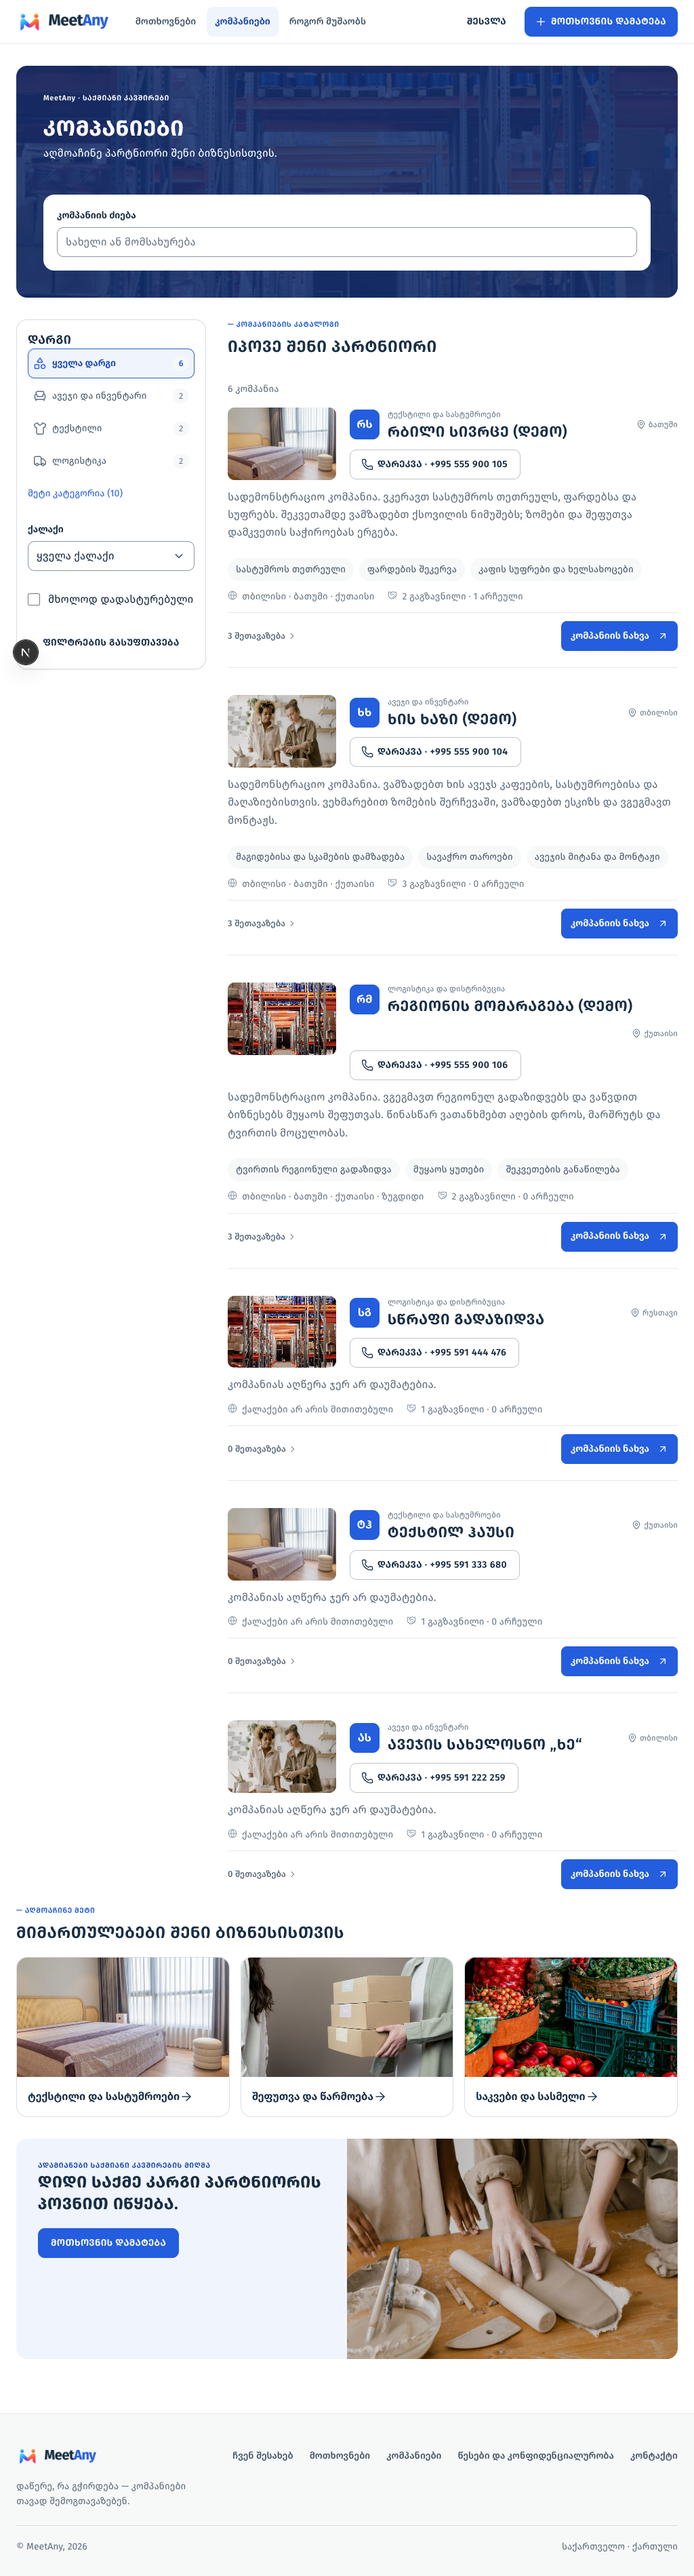
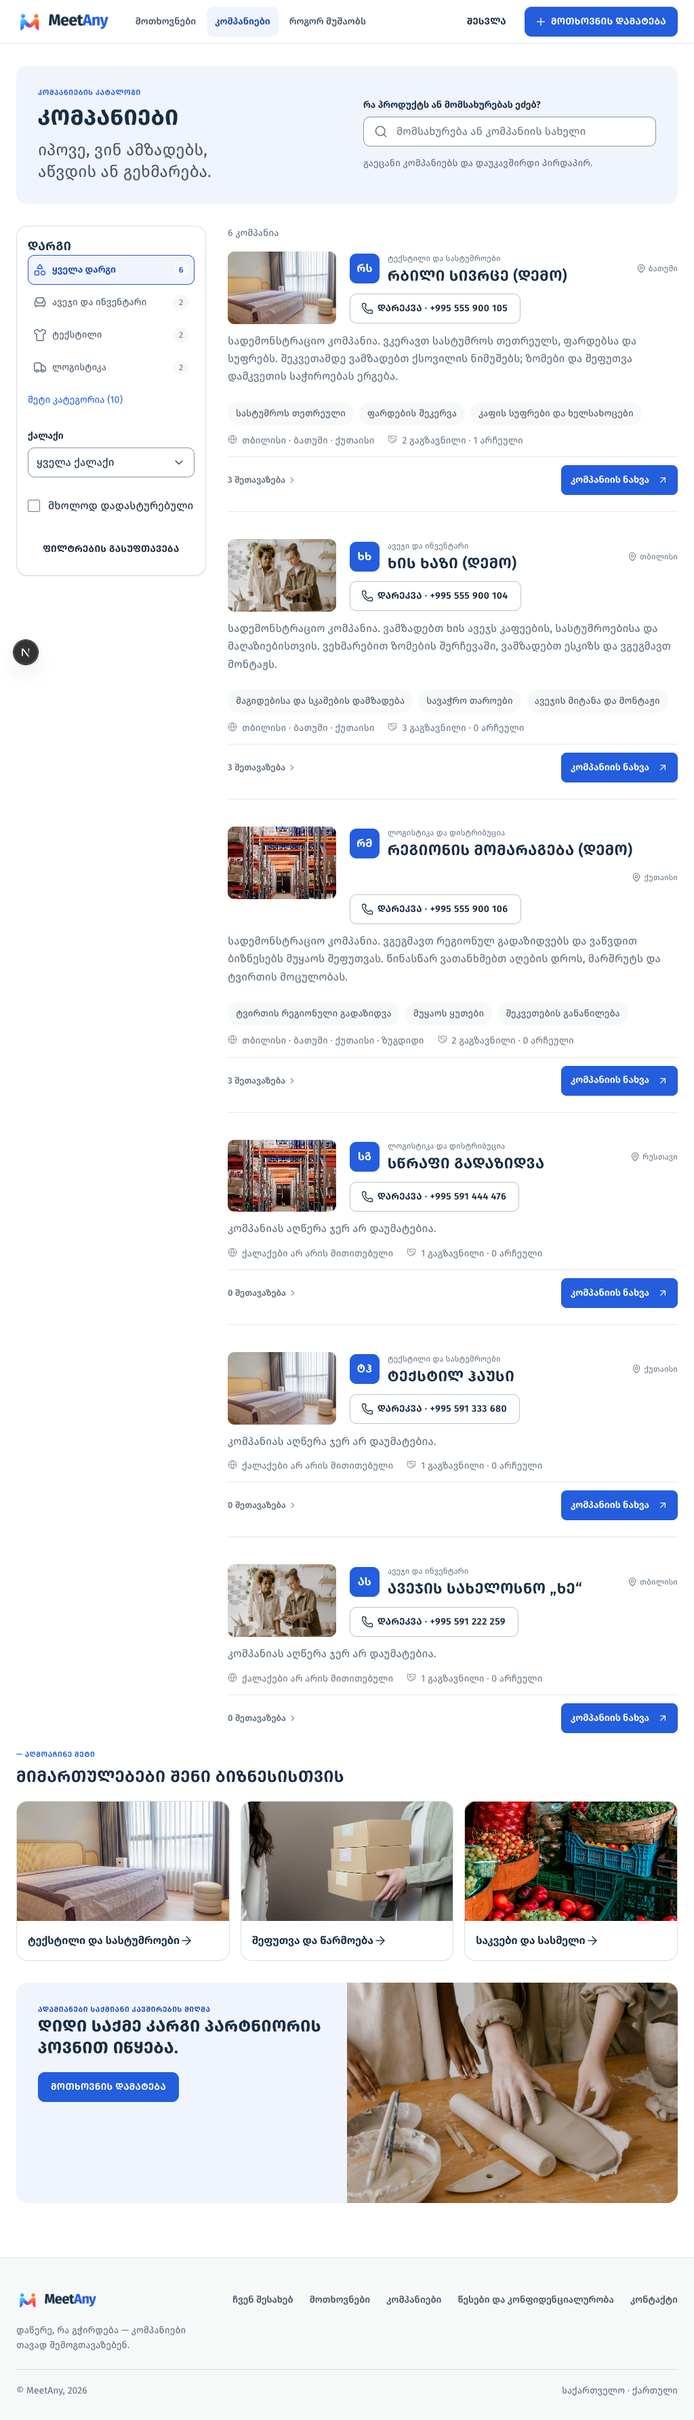
Differentiate request discovery from the company directory

diff --git a/web/app/components/market/CompaniesPageContent.tsx b/web/app/components/market/CompaniesPageContent.tsx
@@ -2,7 +2,6 @@
 
 import { useCallback, useEffect, useMemo, useRef, useState } from "react";
 import { Icon } from "../Icon";
-import { PageBand } from "./PageBand";
 import { SectionHead } from "./SectionHead";
 import { FacetList, type Facet } from "./FacetList";
 import { ResultsBar } from "./ResultsBar";
@@ -121,7 +120,7 @@ export function CompaniesPageContent() {
       </div>
       <div className="ma-field">
         <label className="ma-field__label" htmlFor="company-city-desktop">
-          ქალაქი
+          მომსახურების ქალაქი
         </label>
         <select className="ma-select" id="company-city-desktop" value={city} onChange={(e) => setCity(e.target.value)}>
           <option value="">ყველა ქალაქი</option>
@@ -143,33 +142,29 @@ export function CompaniesPageContent() {
   );
 
   return (
-    <div className="ma-page">
-      <PageBand
-        eyebrow="MeetAny · საქმიანი კავშირები"
-        title="კომპანიები"
-        description="აღმოაჩინე პარტნიორი შენი ბიზნესისთვის."
-        searchSlot={
-          <div className="ma-field">
-            <label className="ma-field__label" htmlFor="company-query">
-              კომპანიის ძიება
-            </label>
-            <input
-              className="ma-input"
-              id="company-query"
-              type="search"
-              placeholder="სახელი ან მომსახურება"
-              value={query}
-              onChange={(e) => setQuery(e.target.value)}
-            />
+    <div className="ma-page companies-catalog">
+      <header className="companies-intro">
+        <div className="companies-intro__identity">
+          <span className="ma-eyebrow">კომპანიების კატალოგი</span>
+          <h1 className="ma-h1">კომპანიები</h1>
+          <p>იპოვე, ვინ ამზადებს,<br />აწვდის ან გეხმარება.</p>
+        </div>
+        <div className="companies-intro__search">
+          <div className="ma-field catalog-search">
+            <label className="ma-field__label" htmlFor="company-query">რა პროდუქტს ან მომსახურებას ეძებ?</label>
+            <div className="catalog-search__input">
+              <Icon name="search" />
+              <input className="ma-input" id="company-query" type="search" placeholder="სახელი ან მომსახურება" value={query} onChange={(e) => setQuery(e.target.value)} />
+            </div>
           </div>
-        }
-      />
+          <p>გაეცანი კომპანიებს და დაუკავშირდი პირდაპირ.</p>
+        </div>
+      </header>
       <div className="ma-proto-columns">
         <aside className="ma-proto-sidebar ma-panel" aria-label="კომპანიების ფილტრები">
           {filtersBody}
         </aside>
         <section className="ma-stack">
-          <SectionHead eyebrow="კომპანიების კატალოგი" title="იპოვე შენი პარტნიორი" />
           <button type="button" className="ma-btn ma-btn--secondary ma-lg-down" ref={filterButtonRef} onClick={() => setSheetOpen(true)}>
             <Icon name="sliders-horizontal" />
             ფილტრი ({filterCount})

diff --git a/web/app/components/market/RequestsPageContent.tsx b/web/app/components/market/RequestsPageContent.tsx
@@ -3,8 +3,6 @@
 import { useCallback, useEffect, useMemo, useRef, useState } from "react";
 import { useSearchParams } from "next/navigation";
 import { Icon } from "../Icon";
-import { PageBand } from "./PageBand";
-import { SectionHead } from "./SectionHead";
 import { FacetList, type Facet } from "./FacetList";
 import { ResultsBar } from "./ResultsBar";
 import { MobileFilterSheet } from "./MobileFilterSheet";
@@ -157,7 +155,7 @@ export function RequestsPageContent({ autoOpenNew = false }: { autoOpenNew?: boo
       </div>
       <div className="ma-field">
         <label className="ma-field__label" htmlFor="city-desktop">
-          ქალაქი
+          სად არის საჭირო
         </label>
         <select className="ma-select" id="city-desktop" value={city} onChange={(e) => setCity(e.target.value)}>
           <option value="">ყველა ქალაქი</option>
@@ -175,28 +173,21 @@ export function RequestsPageContent({ autoOpenNew = false }: { autoOpenNew?: boo
   );
 
   return (
-    <div className="ma-page">
-      <PageBand
-        eyebrow="MeetAny · საქმიანი კავშირები"
-        title="მოთხოვნები"
-        description="ნებისმიერს შეუძლია დაწეროს, რა სჭირდება — კომპანიები პასუხობენ შეთავაზებით."
-        searchSlot={
-          <div className="ma-field">
-            <label className="ma-field__label" htmlFor="query">
-              მოთხოვნის ძიება
-            </label>
-            <input
-              className="ma-input"
-              id="query"
-              type="search"
-              placeholder="რა მიმართულებას ეძებ?"
-              value={query}
-              onChange={(e) => setQuery(e.target.value)}
-            />
+    <div className="ma-page requests-catalog">
+      <header className="requests-intro">
+        <div>
+          <span className="ma-eyebrow">იპოვე საქმე შენი კომპანიისთვის</span>
+          <h1 className="ma-h1">მოთხოვნები</h1>
+          <p>ნახე რა სჭირდებათ და შესთავაზე შენი პირობები.</p>
+        </div>
+        <div className="ma-field catalog-search">
+          <label className="ma-field__label" htmlFor="query">მოთხოვნის ძიება</label>
+          <div className="catalog-search__input">
+            <Icon name="search" />
+            <input className="ma-input" id="query" type="search" placeholder="მაგ. ავეჯი ან შეფუთვა" value={query} onChange={(e) => setQuery(e.target.value)} />
           </div>
-        }
-      />
-      <SectionHead eyebrow="შენი შემდეგი საქმიანი კავშირი" title="მოთხოვნების სია" />
+        </div>
+      </header>
       <div className="ma-proto-columns">
         <aside className="ma-proto-sidebar ma-panel" aria-label="ფილტრები">
           {filtersBody}

diff --git a/web/app/styles/marketplace.css b/web/app/styles/marketplace.css
@@ -219,3 +219,30 @@
  .ma-proto .request-detail>.r2-band{padding:var(--space-5)}
  .request-detail-aside{padding:var(--space-5)}
 }
+
+/* Task-led catalog introductions: work discovery and supplier discovery. */
+.requests-intro,.companies-intro{display:grid;grid-template-columns:minmax(0,1fr);gap:var(--space-6);margin-bottom:var(--space-8)}
+.requests-intro{padding-bottom:var(--space-6);border-bottom:1px solid var(--border)}
+.requests-intro .ma-eyebrow,.companies-intro .ma-eyebrow{display:block;color:var(--action);margin-bottom:var(--space-2)}
+.requests-intro p{margin-top:var(--space-2);color:var(--text-3);font-size:var(--fs-sm)}
+.catalog-search{min-width:0;align-self:center}
+.catalog-search__input{position:relative}
+.catalog-search__input>.icon{position:absolute;left:var(--space-4);top:50%;transform:translateY(-50%);color:var(--text-3);pointer-events:none}
+.catalog-search__input>.ma-input{width:100%;padding-left:var(--space-12)}
+.companies-intro{padding:var(--space-8);background:var(--blue-50);border-radius:var(--radius-lg);align-items:center}
+.companies-intro__identity>p{font-size:var(--fs-h2);line-height:var(--lh-h2);color:var(--text-2);margin-top:var(--space-3)}
+.companies-intro__search{min-width:0;display:grid;gap:var(--space-3)}
+.companies-intro__search>p{font-size:var(--fs-sm);color:var(--text-3)}
+.ma-proto .requests-catalog .ma-rcard--row{box-shadow:none;padding:var(--space-5);gap:var(--space-4)}
+.requests-catalog .ma-rcard--row>.ma-stack{gap:var(--space-3)}
+.requests-catalog .ma-proto-rowend{align-content:start}
+@media(min-width:768px){
+ .requests-intro{grid-template-columns:minmax(0,1fr) minmax(0,1fr);align-items:center;gap:var(--space-8)}
+ .companies-intro{grid-template-columns:minmax(0,1fr) minmax(0,1fr);gap:var(--space-12)}
+}
+@media(max-width:767px){
+ .companies-intro{padding:var(--space-5)}
+ .requests-intro,.companies-intro{margin-bottom:var(--space-6)}
+ .requests-catalog .ma-proto-rowend{display:flex;flex-wrap:wrap;align-items:center;gap:var(--space-3)}
+ .requests-catalog .ma-proto-rowend>.ma-btn{margin-left:auto}
+}

diff --git a/web/app/components/market/RequestRow.tsx b/web/app/components/market/RequestRow.tsx
@@ -58,9 +58,7 @@ export function RequestRow({ r }: { r: RequestRowData }) {
             </span>
           ) : null}
         </div>
-        <div className="ma-small ma-muted">
-          {r.neededBy ? `საჭიროა ${neededByLabel(r.neededBy)}` : "საჭირო თარიღი არ არის მითითებული"}
-        </div>
+        {r.neededBy ? <div className="ma-small ma-muted">საჭიროა {neededByLabel(r.neededBy)}</div> : null}
       </div>
       <div className="ma-proto-rowend">
         <span className="ma-rcard__offers">

diff --git a/DESIGN-SYSTEM.md b/DESIGN-SYSTEM.md
@@ -11,9 +11,9 @@ Tailwind/shadcn არ გამოიყენება. ახალი ფე
 
 `SiteShell` ყველა marketplace გვერდს ათავსებს ერთ `ma-container`-ში, header/footer-ის კიდეებთან გასწორებით. desktop ფილტრის სიგანეა 280px; მობილურზე ფილტრი იხსნება native dialog-ში. აქტიური ფილტრები ინახება URL-ში და მუშაობს browser back/forward.
 
-მოთხოვნები: მუქი ფოტობენდი, ძიება, მარცხენა ფილტრები, შედეგების რიგში დალაგება და ფართო ბარათები. კატეგორიები Lucide-ის `/icons.svg` sprite-დან; ყველა არანულოვანი კატეგორია ჩანს მოკლე ერთხაზიანი ლეიბლით, ცალკე რაოდენობით და აქტიური რიგის მარცხენა აქცენტით. სრული სახელი ხელმისაწვდომია `aria-label`/`title`-ში. ჩატვირთვისას რაოდენობები არ იბეჭდება.
+მოთხოვნების სია: კომპაქტური თეთრი შესავალი, სათაურის გვერდით ძიება, მარცხენა ფილტრები და შედეგების რიგში დალაგება. ტექსტზე ორიენტირებულ ბარათებში რაოდენობა/ქალაქი და ვადა/პასუხები სტაბილურ ადგილებს იკავებს. მოთხოვნის დეტალი ინარჩუნებს მუქ ფოტობენდს. კატეგორიები Lucide-ის `/icons.svg` sprite-დან; ყველა არანულოვანი კატეგორია ჩანს მოკლე ერთხაზიანი ლეიბლით, ცალკე რაოდენობით და აქტიური რიგის მარცხენა აქცენტით. სრული სახელი ხელმისაწვდომია `aria-label`/`title`-ში. ჩატვირთვისას რაოდენობები არ იბეჭდება.
 
-კომპანიები: კომპაქტური ჰორიზონტალური ფოტო (3:2) `categoryPhoto`-დან, მომსახურების ჩიპები და ძირითადი ლურჯი ღილაკი. კატალოგის ბარათზე დადასტურების ბეიჯი არ ჩანს (მფლობელის განახლებული გადაწყვეტილება). ფოტო და კომპანიის ვინაობა ზედა რიგს იკავებს, აღწერა/მომსახურებები/მოქმედებები მთელ სიგანეს იყენებს. პროდუქტები უბრალო სიაა. ტელეფონის ბმული არის `tel:` და მინიმუმ 44px სამიზნე აქვს.
+კომპანიები: ღია ლურჯი შესავალი, პროდუქტზე/მომსახურებაზე ორიენტირებული ძიება და პირდაპირი კონტაქტის მინიშნება; კომპაქტური ჰორიზონტალური ფოტო (3:2) `categoryPhoto`-დან, მომსახურების ჩიპები და ძირითადი ლურჯი ღილაკი. კატალოგის ბარათზე დადასტურების ბეიჯი არ ჩანს (მფლობელის განახლებული გადაწყვეტილება). ფოტო და კომპანიის ვინაობა ზედა რიგს იკავებს, აღწერა/მომსახურებები/მოქმედებები მთელ სიგანეს იყენებს. პროდუქტები უბრალო სიაა. ტელეფონის ბმული არის `tel:` და მინიმუმ 44px სამიზნე აქვს.
 
 მთავარი ინარჩუნებს არსებულ hero-ს და 3D კატეგორიებს. `HomeLive`-ის featured კომპანიები და რაოდენობები რეალური ბაზიდან იტვირთება. ძველ hero-სთან შედარება: 1440px-ზე ორივე 435.09px სიმაღლე; ფერი/ფოტოს გამჭვირვალობა იდენტურია.
 

diff --git a/web/qa/DESIGN-DIRECTION.md b/web/qa/DESIGN-DIRECTION.md
@@ -1,6 +1,6 @@
 # MeetAny: requests and company discovery
 
-Research reviewed 2026-09-22. This is a proposed direction, not a claim that users have tested or approved a new design.
+Research reviewed 2026-09-22. The owner approved this direction in conversation; the catalog introductions are now implemented. This is not a claim of usability testing with representative users.
 
 The two pages serve different decisions. Requests help a supplier decide whether to respond to a specific need; companies help a buyer choose a potential partner. Keep shared navigation, typography, controls and filter behavior, while differentiating hierarchy, content and page introductions.
 
@@ -11,7 +11,7 @@ The two pages serve different decisions. Requests help a supplier decide whether
 | Entry hierarchy | Need → quantity/location/deadline → responses | Company → capabilities/service area → contact |
 | Image | Author's actual reference photo, when present | Small supporting image; company identity stays primary |
 | Main action | View requirement, then send terms | View company or call |
-| Filters | Category and destination city | Industry and service area (service-area behavior requires a separate functional change) |
+| Filters | Category and destination city | Industry and service city (existing matching includes company city, service cities and all-Georgia coverage) |
 
 Keep entries in predictable rows for comparison. A different color or a two-column grid by itself does not address the different tasks. Avoid dominant repeated category photos: current images describe an industry, not the individual company. Real company media could improve this later, without implying it already exists.
 
@@ -22,4 +22,4 @@ Sources:
 - [Thomasnet: Supplier Discovery](https://sourcing.thomasnet.com/) — search, evaluate capabilities, contact a supplier.
 - [Upwork: Job Search](https://support.upwork.com/hc/en-us/articles/211063078-How-to-search-for-jobs-on-Upwork) — keyword search and filters for finding relevant work. A workflow reference, not a layout to copy.
 
-Implemented during this review: shorter category labels with full accessible names, separate counts, compact company photos, removal of catalog verification badges, full-width company descriptions, and a request detail reading column with a contact aside and company response in the reading column. Distinct catalog introductions remain a proposal for the next design iteration.
+Implemented during this review: shorter category labels with full accessible names, separate counts, compact company photos, removal of catalog verification badges, full-width company descriptions, and a request detail reading column with a contact aside and company response in the reading column. Distinct catalog introductions are implemented: compact white work-search header for requests, a light-blue supplier directory introduction for companies. Redundant section headings and missing-date placeholder text were removed. Search IDs, URL state, filtering and keyboard behavior are preserved.

diff --git a/web/qa/README.md b/web/qa/README.md
@@ -17,4 +17,6 @@
 
 კატეგორიების სია, კომპანიის ბარათი და მოთხოვნის დეტალი გადაიწყო. `shots/refined-*` აჩვენებს 1440/1024/390 ხედებს და შესული კლიენტის/კომპანიის მოთხოვნის ხედებს. შემოწმდა სურათები, ქართული ტექსტი და ჰორიზონტალური საზღვრები; სრულმა browser smoke-მა ხელახლა გაიარა 19 შემოწმება, 0 console error-ით. Build წარმატებულია, lint: 0 შეცდომა / 17 არსებული გაფრთხილება. ამ ვიზუალური ცვლილებისთვის DB workflow ტესტები არ გამეორებულა; შესული ანგარიშების დათვალიერება მხოლოდ წაკითხვას მოიცავდა.
 
-მოთხოვნისა და კომპანიის კატალოგების შემდგომი განსხვავების კვლევა: [DESIGN-DIRECTION.md](DESIGN-DIRECTION.md). იქ შეთავაზებული განსხვავებული შესავალი ბლოკები ჯერ არ განხორციელებულა.
+მოთხოვნისა და კომპანიის კატალოგების შემდგომი განსხვავების კვლევა: [DESIGN-DIRECTION.md](DESIGN-DIRECTION.md). მფლობელის თანხმობის შემდეგ განსხვავებული შესავალი ბლოკებიც განხორციელდა.
+
+კატალოგების განსხვავება: `shots/catalog-*-desktop.png`, `catalog-*-mobile.png` და `catalog-*-filters-mobile.png`. შემოწმდა 1440/1024/390, ძიება/ცარიელი შედეგი, URL/reload/back, მობილური ფილტრი და Escape. Build წარმატებულია; შეცვლილ კომპონენტებზე lint: 0 შეცდომა, 1 არსებული img გაფრთხილება.
